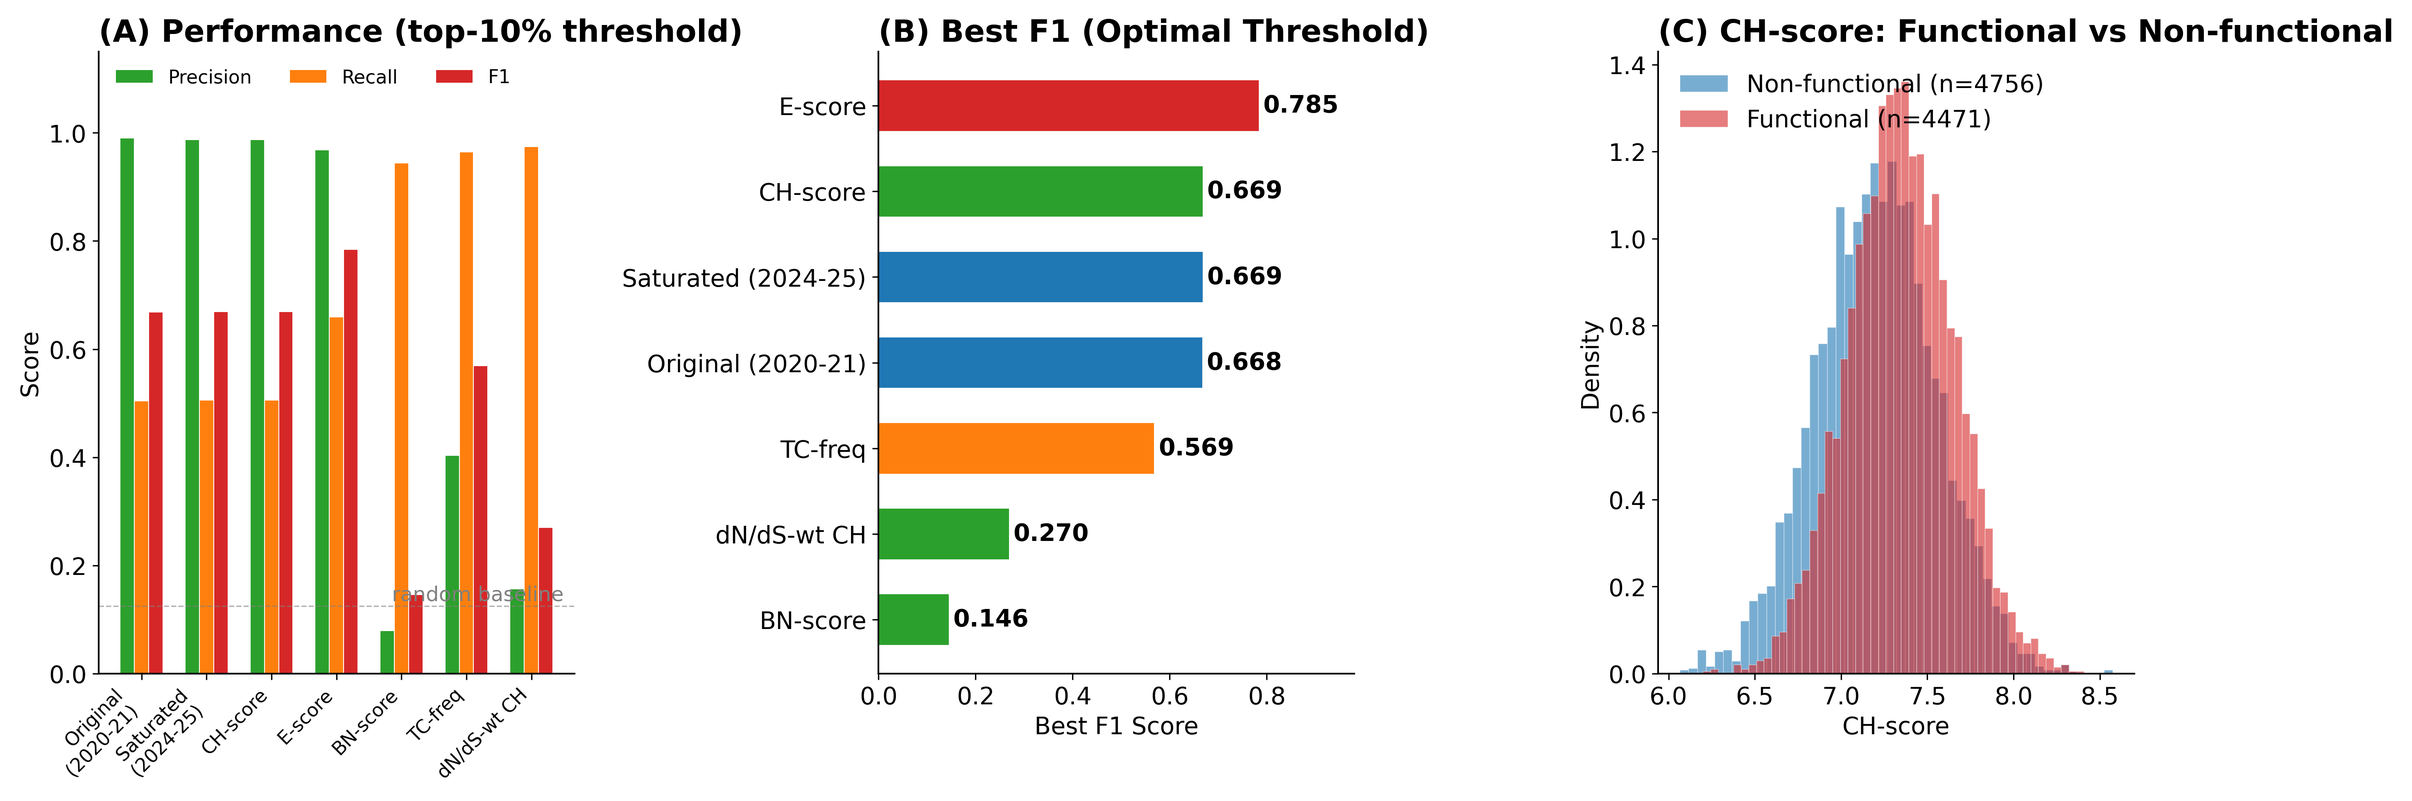
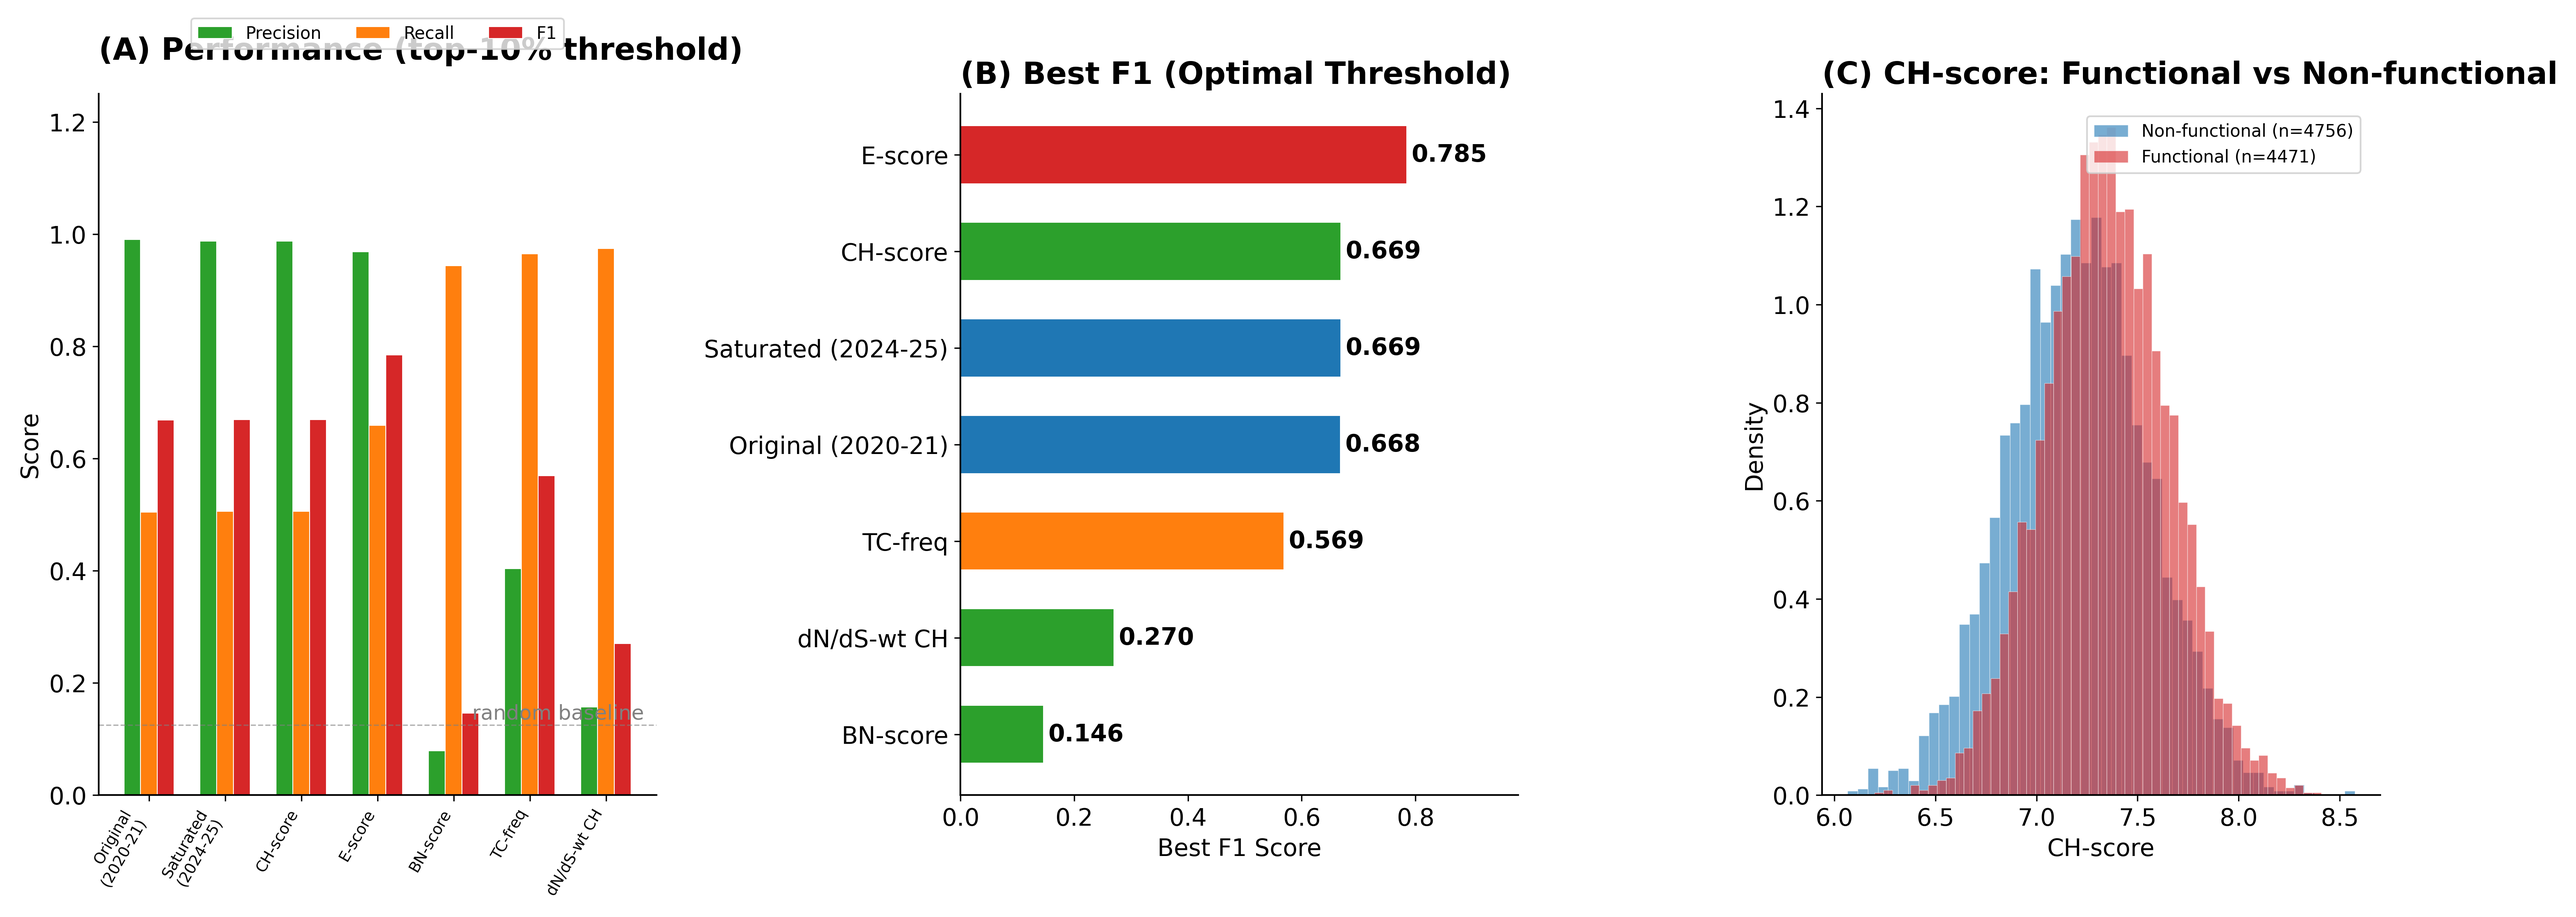
fix: Panel A/C legend overlap — moved outside plot area
- Panel A: legend moved to bbox_to_anchor above bars, x-label rotation 45→60,
  fontsize 11→9, ylim 1.15→1.25, title pad increased
- Panel C: legend moved to upper-right with bbox_to_anchor, fontsize 14→10
- Figure size 18x7→20x8 for more breathing room
- All 6 split figures + guide_figures + PDF regenerated

diff --git a/scripts/regenerate_dissertation_figures.py b/scripts/regenerate_dissertation_figures.py
@@ -61,7 +61,7 @@ def figure_4_1():
     }
 
     # ── TOP: Panels A, B, C (1x3, 18x7) ──
-    fig_top, axes_top = plt.subplots(1, 3, figsize=(18, 7))
+    fig_top, axes_top = plt.subplots(1, 3, figsize=(20, 8))
 
     # Panel A: Grouped bar chart (Precision, Recall, F1)
     ax_a = axes_top[0]
@@ -78,12 +78,13 @@ def figure_4_1():
 
     ax_a.set_xticks(x)
     ax_a.set_xticklabels([short_labels.get(m, m) for m in methods],
-                         fontsize=11, rotation=45, ha='right')
+                         fontsize=9, rotation=60, ha='right')
     ax_a.set_ylabel('Score', fontsize=14)
-    ax_a.set_ylim(0, 1.15)
-    ax_a.legend(fontsize=11, frameon=False, loc='upper left', ncol=3)
+    ax_a.set_ylim(0, 1.25)
+    ax_a.legend(fontsize=10, frameon=True, fancybox=True,
+                bbox_to_anchor=(0.5, 1.12), loc='upper center', ncol=3)
     ax_a.set_title('(A) Performance (top-10% threshold)', fontsize=PANEL_LABEL_SIZE,
-                   fontweight='bold', loc='left')
+                   fontweight='bold', loc='left', pad=20)
     ax_a.axhline(y=0.125, color='gray', linestyle='--', linewidth=0.8, alpha=0.6)
     ax_a.text(len(methods)-0.5, 0.135, 'random baseline', fontsize=12,
               color='gray', ha='right')
@@ -137,7 +138,8 @@ def figure_4_1():
 
     ax_c.set_xlabel('CH-score', fontsize=14)
     ax_c.set_ylabel('Density', fontsize=14)
-    ax_c.legend(fontsize=14, frameon=False, loc='upper left')
+    ax_c.legend(fontsize=10, frameon=True, fancybox=True,
+                bbox_to_anchor=(0.98, 0.98), loc='upper right')
     ax_c.set_title('(C) CH-score: Functional vs Non-functional',
                    fontsize=PANEL_LABEL_SIZE, fontweight='bold', loc='left')
 
